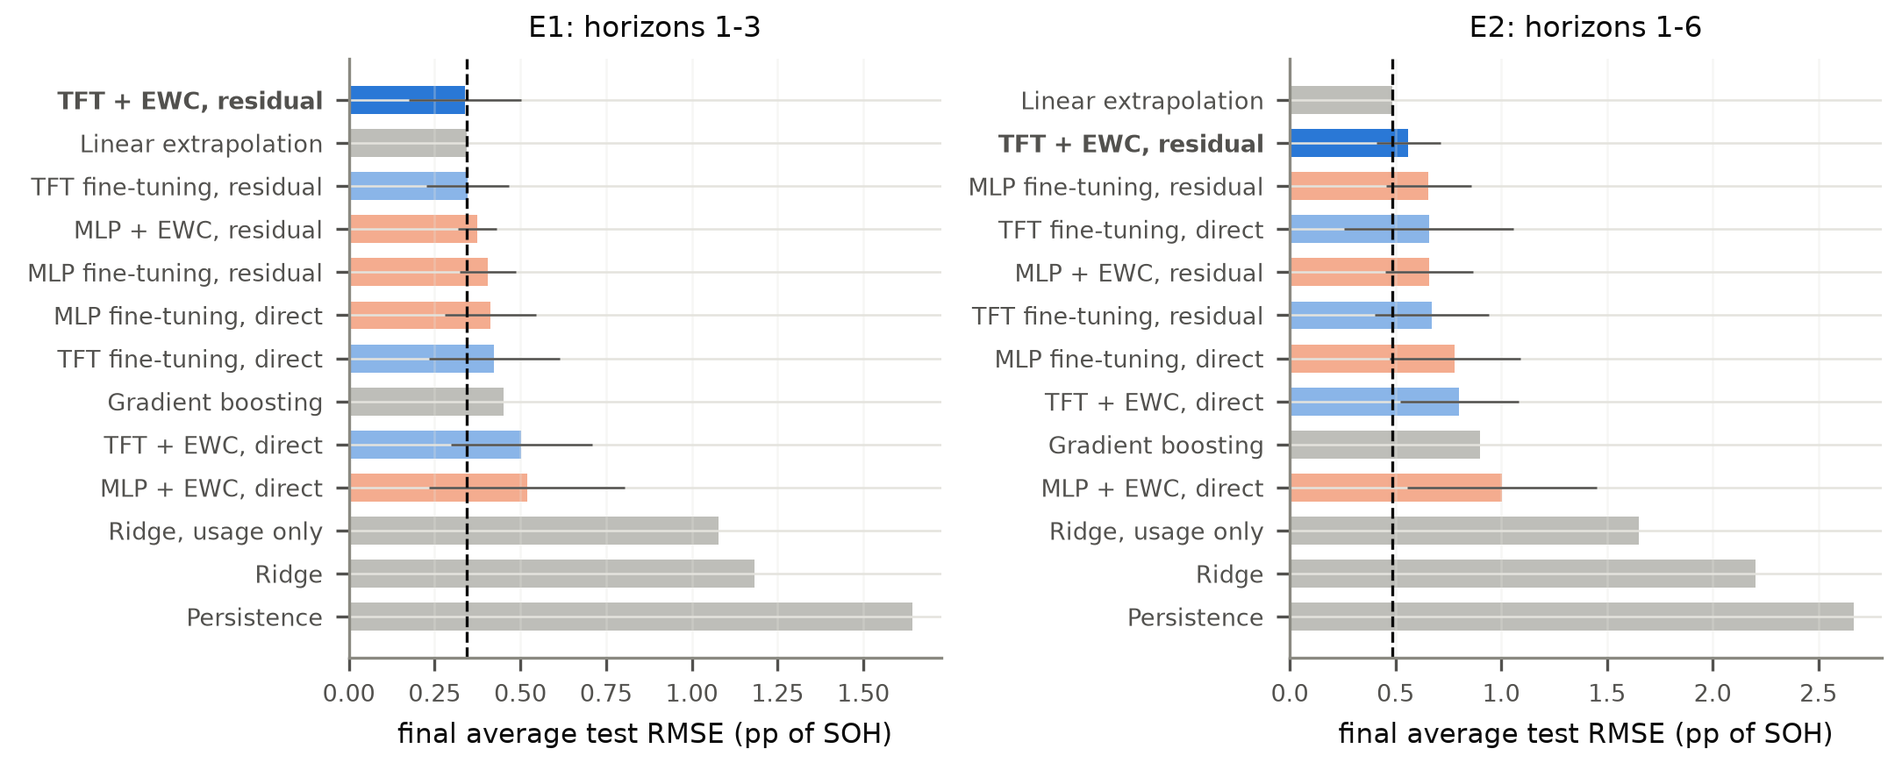
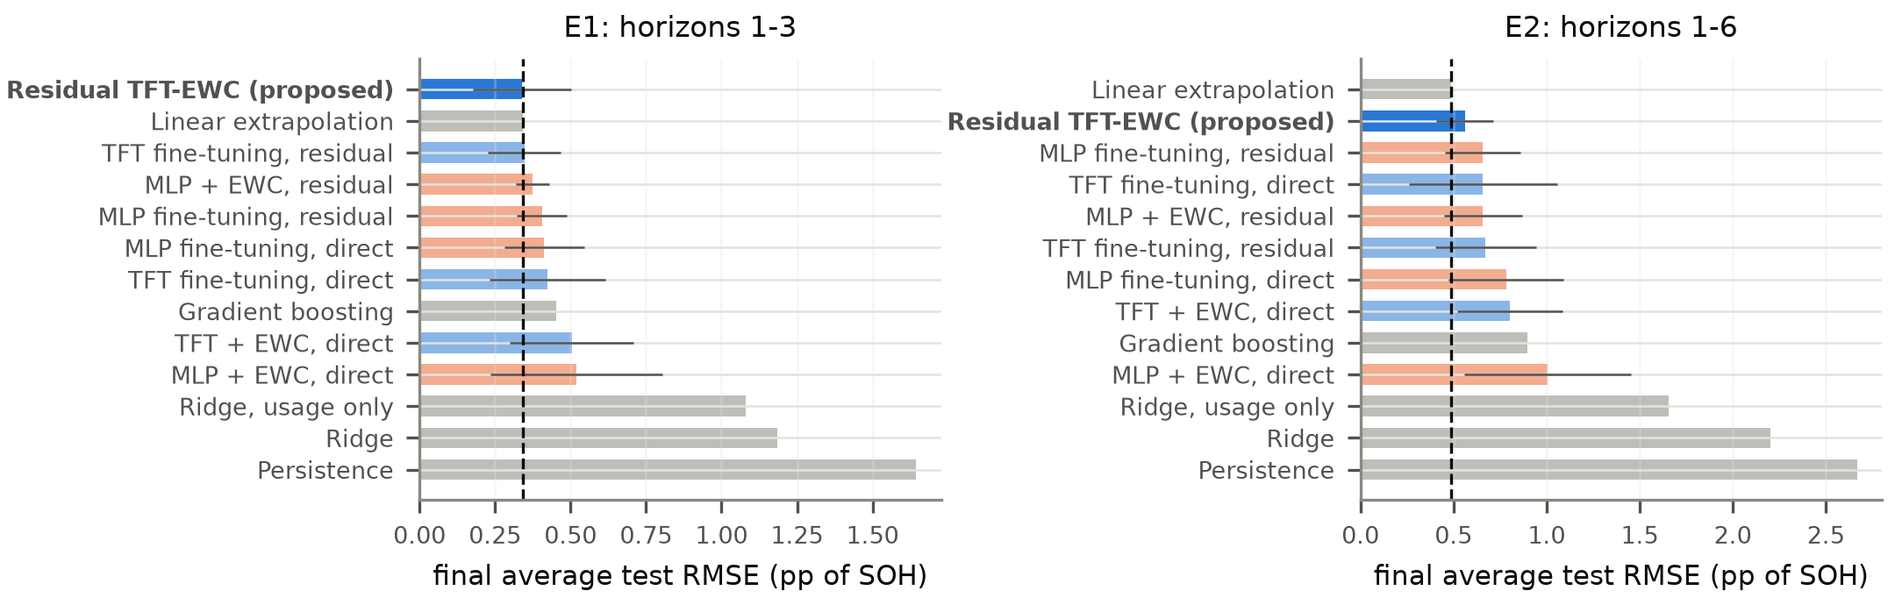
paper: related work condensed around the approaches table; Spark-job and P3 detail moved to the supplement; bar chart shortened and labelled Residual TFT-EWC; output script for the D26 reuse-class table and confusion figure

Changed region(s): [[0.0, 0.0913, 0.9926, 0.9739], [0.7755, 0.0, 0.9306, 0.0609], [0.2792, 0.0, 0.4343, 0.0609]]

diff --git a/paper/paper_single.tex b/paper/paper_single.tex
@@ -173,11 +173,7 @@ The contributions are (Fig.~\ref{fig:system}):
 
 \section{Related Work}
 
-The review covers 2022--2026 studies on second-life lithium-ion batteries, SOH estimation, continual learning and reuse assessment.
-
-\emph{SOH estimation for second life.} Braco \textit{et al.} estimated the SOH of second-life cells from partial charging under residential and fast-charging-station profiles, with offline RMSE of about 0.6 and 0.8\% and 85\% less testing time than a full capacity test~\cite{ref1}. On reused Nissan Leaf modules they compared 58 health indicators; the best reached about 0.2\% RMSE at repurposing, but the most useful indicators changed as ageing progressed~\cite{ref2}. Faraji-Niri \textit{et al.} accelerated second-life SOH estimation with impedance spectroscopy and machine learning~\cite{ref3}. Takahashi \textit{et al.} screened batteries for second life with statistical current and voltage features and bagged Gaussian process regression, with root-mean-squared percent error below 1.48\% in the worst cases~\cite{ref4}. Cui \textit{et al.} tested retired Nissan Leaf cells for more than 15 months under grid-storage-like operation and estimated health online with clustering, with mean absolute percentage error below 2.3\%~\cite{ref5}. Vignesh \textit{et al.} reviewed SOH estimation methods for second-life batteries and their challenges~\cite{ref6}. These studies estimate the \emph{current} SOH of a fixed population; none adapts a model as new, different populations arrive.
-
-\emph{Continual learning and generalisation.} Lee \textit{et al.} applied bilevel-optimised continual learning to predict the capacity degradation of lithium-ion batteries~\cite{ref7}. Yao \textit{et al.} used progressive neural networks with temporal convolutional networks for online state-of-charge estimation across three drive-cycle datasets, addressing catastrophic forgetting and task order~\cite{ref8}. Li \textit{et al.} proposed domain-generalised SOH estimation for second-life EV batteries~\cite{ref9}, and Meskine \textit{et al.} compared BiLSTM, TCN and probabilistic TCN-GPR models on sparse, noisy data, where isotonic recalibration substantially reduced the calibration error~\cite{ref10}. Transfer and domain generalisation do not by themselves address a long sequence of tasks with explicit retention.
+The review covers 2022--2026 studies (Table~\ref{tab:literature}; review in~\cite{ref6}). Second-life SOH has been estimated from partial charging under residential and fast-charging profiles (RMSE about 0.6 and 0.8\%, 85\% less testing time than a capacity test)~\cite{ref1}, from 58 health indicators of reused Nissan Leaf modules (about 0.2\% RMSE, but the most useful indicators changed with ageing)~\cite{ref2}, from impedance spectra~\cite{ref3}, and with bagged Gaussian process regression for screening (worst-case error below 1.48\%)~\cite{ref4}; retired Leaf cells aged for over 15 months were tracked online with clustering (error below 2.3\%)~\cite{ref5}. These studies estimate the \emph{current} SOH of a fixed population; none adapts a model as new populations arrive. Continual learning has predicted capacity degradation~\cite{ref7} and, with progressive networks and TCNs, the state of charge across drive cycles, addressing forgetting and task order~\cite{ref8}; domain generalisation~\cite{ref9} and probabilistic BiLSTM/TCN models, whose calibration error isotonic recalibration reduced~\cite{ref10}, target second-life SOH but not a long sequence of tasks with explicit retention.
 
 \begin{table}[t]
   \centering
@@ -253,7 +249,7 @@ Table~\ref{tab:data} lists the five public datasets (all CC~BY~4.0). Every file 
 \subsection{Big-data processing of the ageing cycles}
 \label{sec:spark}
 
-Between checks, every S6 cell logged each ageing cycle at about one sample per second: 827 files, 132~GB raw and $9.0\times10^{8}$ rows. Apache Spark~4.2 (PySpark, local mode) reduces them to block-level inputs: one map task per 100-cycle block derives, for every cycle, a validity flag and seven measured responses (end-of-charge and end-of-discharge voltage, constant-voltage hold time and final current, relaxation after charge and after discharge, internal resistance); Spark SQL groups the cached per-cycle table (82{,}529 cycles) by cell and block into the mean, last value and slope of each response (21 inputs), and each block joins the origin at the check that ends it. Charge, energy and current are excluded because the protocol scales them with the previous capacity (within-cell $r=0.97$--$0.999$ with the previous check's capacity). The run takes 20~min on six cores and matches an independent pandas implementation on all 827 blocks (largest difference $2\times10^{-13}$).
+Between checks, every S6 cell logged each ageing cycle at about one sample per second (827 files, 132~GB, $9.0\times10^{8}$ rows). Apache Spark~4.2 (PySpark, local mode) reduces them to the mean, last value and slope of seven measured responses per 100-cycle block (21 inputs), joined to the check that ends the block; the job, its validation against an independent pandas implementation and the excluded quantities are described in the supplement.
 
 \subsection{State of health and forecasting target}
 \label{sec:soh}
@@ -353,7 +349,7 @@ Preprocessing (standardisation, median imputation with missing indicators, targe
   \frac{\lambda}{2}\sum_{p} F_{j,p}\,\big(\theta_p - \theta^{*}_{j,p}\big)^2,
   \label{eq:ewc}
 \end{equation}
-with $\theta^*_j$ the parameters after task $j$ and $F_j$ the empirical diagonal Fisher information over up to 500 training samples. \emph{TFT\,+\,EWC} is the proposed model. Training uses Adam~\cite{kingma2015adam}, batches of 64, at most 200 epochs and early stopping on the current task's validation RMSE.
+with $\theta^*_j$ the parameters after task $j$ and $F_j$ the empirical diagonal Fisher information over up to 500 training samples. \emph{TFT\,+\,EWC} is the proposed continual learner; trained on the residual~\eqref{eq:residual} below, with shrinkage and intervals, it forms the proposed \emph{Residual TFT-EWC} (Fig.~\ref{fig:arch}). Training uses Adam~\cite{kingma2015adam}, batches of 64, at most 200 epochs and early stopping on the current task's validation RMSE.
 
 \emph{Reference forecasters} are persistence ($\hat\Delta=0$), linear extrapolation $\hat\Delta_{b,k,h} = r_{b,k}(t_{b,k+h}-t_{b,k})$, ridge regression (on planned usage only, F0 or F1) and histogram gradient boosting on F1.
 
@@ -494,9 +490,9 @@ P1 and P2 were re-run in a pinned environment on data rebuilt from the raw archi
 \subsection{First-life pretraining (P3)}
 \label{sec:res-p3}
 
-The pool has 36{,}711 samples (S6: 2{,}409); validation selected EWC $\lambda=0.01$ for the pretrained TFT. Under the replication rule, EWC and fine-tuning are practically equivalent for the pretrained TFT (differences of 0.015--0.017~pp); both backbones are better from scratch on average (TFT 0.401/0.415~pp against 0.509/0.591~pp pretrained with EWC, significant only in the replicate set); and linear extrapolation (0.343~pp) remains the most accurate method. The S6 stream does not degrade the pool test error (TFT\,+\,EWC: 3.280 to 3.148~pp), but there too the pretrained models trail extrapolation (3.001~pp): pretraining learns no first-life model worth transferring.
+Pretraining on the first-life pool (36{,}711 samples, against 2{,}409 in S6) does not help: for the pretrained TFT, EWC and fine-tuning are practically equivalent, both backbones are better from scratch on average (TFT 0.401/0.415~pp against 0.509/0.591~pp pretrained with EWC, significant only in the replicate set), and linear extrapolation (0.343~pp) remains the most accurate method, on S6 and on the pool's own test split (details in the supplement).
 
-\emph{Why the TFT improved.} A post hoc ablation, repeated on the replicate seeds, explains why the TFT from scratch improves from 0.891~pp with the earlier inputs to 0.401~pp with the shared ones: dropping the 17 diagnostic features lowers the error by 0.17--0.35~pp and adding the calendar time between checks by 0.19--0.31~pp, both replicated at both learning rates ($p_{\mathrm{Holm}}\le0.002$). Its attention over the four previous origins is nearly uniform (0.24--0.26 per lag): the TFT makes little use of its history.
+\emph{Why the TFT improved.} A post hoc ablation, repeated on the replicate seeds, explains why the TFT from scratch improves from 0.891 to 0.401~pp with the shared inputs: dropping the 17 diagnostic features (0.17--0.35~pp) and adding the calendar time between checks (0.19--0.31~pp), both replicated ($p_{\mathrm{Holm}}\le0.002$). Its attention over the four previous origins is nearly uniform (0.24--0.26 per lag).
 \label{sec:res-interp}
 
 % -----------------------------------------------------------------------------

diff --git a/scripts/make_d26_class_outputs.py b/scripts/make_d26_class_outputs.py
@@ -1,0 +1,105 @@
+"""Comparison table and confusion figure of the reuse classes on unseen S6 conditions (D26 E1 set-up).
+
+From results/forecasting_d26_classes_e1.json (scripts/run_d26_classes.py). Writes
+paper/tables/d26_classes.tex (accuracy, sensitivity = macro recall, precision = macro precision, macro-F1, MCC) and
+paper/figures/d26_confusion.png (mean counts over the 50 runs for the proposed model; single fits otherwise).
+
+    python scripts/make_d26_class_outputs.py
+"""
+
+from __future__ import annotations
+
+import json
+from pathlib import Path
+
+import matplotlib
+
+matplotlib.use("Agg")
+import matplotlib.pyplot as plt  # noqa: E402
+import numpy as np  # noqa: E402
+
+ROOT = Path(__file__).resolve().parents[1]
+SRC = ROOT / "results" / "forecasting_d26_classes_e1.json"
+ROWS = (  # (key, label, kind)
+    ("persistence", "Persistence", "baseline"),
+    ("linear_extrapolation", "Linear extrapolation", "baseline"),
+    ("ridge_shared", "Ridge", "regression"),
+    ("gbm_shared", "Gradient boosting", "regression"),
+    ("tft_residual_ewc_shrunk", "\\textbf{Residual TFT-EWC}", "proposed, continual"),
+)
+COLS = (("accuracy", "Acc."), ("recall_macro", "Sens."), ("precision_macro", "Prec."), ("f1_macro", "F1"),
+        ("mcc", "MCC"))
+FIG = (("linear_extrapolation", "Linear extrapolation"), ("gbm_shared", "Gradient boosting"),
+       ("tft_residual_ewc_shrunk", "Residual TFT-EWC (mean)"))
+
+
+def table(d: dict) -> str:
+    s = d["summary"]
+    best = {k: max(s[m][k]["mean"] for m, _, _ in ROWS) for k, _ in COLS}
+    lines = []
+    for key, label, kind in ROWS:
+        cells = []
+        for k, _ in COLS:
+            v = s[key][k]["mean"]
+            txt = f"{v:.3f}"
+            if key == "tft_residual_ewc_shrunk":
+                txt += f"\\,$\\pm$\\,{s[key][k]['std']:.3f}"
+            cells.append(f"\\textbf{{{txt}}}" if abs(v - best[k]) < 5e-4 else txt)
+        lines.append(f"    {label} & {kind} & " + " & ".join(cells) + " \\\\")
+    cm = np.array(s["linear_extrapolation"]["confusion_mean"])
+    counts = ", ".join(f"C{i} {int(n)}" for i, n in enumerate(cm.sum(axis=1)))
+    return "\n".join([
+        f"% Generated by scripts/make_d26_class_outputs.py from {SRC.relative_to(ROOT).as_posix()}",
+        "\\begin{table}[t]",
+        "  \\centering",
+        "  \\caption{Reuse class of the forecast SOH on unseen S6 usage conditions (P2, seven held-out conditions,",
+        "    horizons 1--3), all held-out samples pooled. Sens.\\ and Prec.: macro sensitivity (recall) and precision",
+        f"    over the measured classes ({counts}). Proposed model: mean $\\pm$ s.d.\\ over 50 runs (main seed set);",
+        "    others: single deterministic fits. Bold: best.}",
+        "  \\label{tab:d26_classes}",
+        "  \\setlength{\\tabcolsep}{2.2pt}",
+        "  \\scriptsize",
+        "  \\begin{tabular}{llccccc}",
+        "    \\toprule",
+        "    Approach & Type & " + " & ".join(h for _, h in COLS) + " \\\\",
+        "    \\midrule",
+        *lines,
+        "    \\bottomrule",
+        "  \\end{tabular}",
+        "\\end{table}",
+        "",
+    ])
+
+
+def figure(d: dict) -> None:
+    s = d["summary"]
+    fig, axes = plt.subplots(1, 3, figsize=(3.5, 1.45), sharey=True)
+    for ax, (key, title) in zip(axes, FIG):
+        cm = np.array(s[key]["confusion_mean"], float)
+        share = cm / np.maximum(cm.sum(axis=1, keepdims=True), 1)
+        ax.imshow(share, cmap="Blues", vmin=0, vmax=1)
+        for i in range(cm.shape[0]):
+            for j in range(cm.shape[1]):
+                ax.text(j, i, f"{cm[i, j]:.0f}", ha="center", va="center", fontsize=5,
+                        color="w" if share[i, j] > 0.6 else "k")
+        ax.set_title(title, fontsize=5.8)
+        ax.set_xticks(range(4), [f"C{i}" for i in range(4)], fontsize=5)
+        ax.set_yticks(range(4), [f"C{i}" for i in range(4)], fontsize=5)
+        ax.set_xlabel("forecast class", fontsize=5.5)
+        ax.tick_params(length=1.5, pad=1)
+    axes[0].set_ylabel("measured class", fontsize=5.5)
+    fig.tight_layout(pad=0.2, w_pad=0.4)
+    fig.savefig(ROOT / "paper" / "figures" / "d26_confusion.png", dpi=400)
+    plt.close(fig)
+
+
+def main() -> int:
+    d = json.loads(SRC.read_text())
+    (ROOT / "paper" / "tables" / "d26_classes.tex").write_text(table(d), encoding="utf-8")
+    figure(d)
+    print("wrote paper/tables/d26_classes.tex and paper/figures/d26_confusion.png")
+    return 0
+
+
+if __name__ == "__main__":
+    raise SystemExit(main())

diff --git a/paper/sections/related.tex b/paper/sections/related.tex
@@ -7,11 +7,7 @@
 
 \section{Related Work}
 
-The review covers 2022--2026 studies on second-life lithium-ion batteries, SOH estimation, continual learning and reuse assessment.
-
-\emph{SOH estimation for second life.} Braco \textit{et al.} estimated the SOH of second-life cells from partial charging under residential and fast-charging-station profiles, with offline RMSE of about 0.6 and 0.8\% and 85\% less testing time than a full capacity test~\cite{ref1}. On reused Nissan Leaf modules they compared 58 health indicators; the best reached about 0.2\% RMSE at repurposing, but the most useful indicators changed as ageing progressed~\cite{ref2}. Faraji-Niri \textit{et al.} accelerated second-life SOH estimation with impedance spectroscopy and machine learning~\cite{ref3}. Takahashi \textit{et al.} screened batteries for second life with statistical current and voltage features and bagged Gaussian process regression, with root-mean-squared percent error below 1.48\% in the worst cases~\cite{ref4}. Cui \textit{et al.} tested retired Nissan Leaf cells for more than 15 months under grid-storage-like operation and estimated health online with clustering, with mean absolute percentage error below 2.3\%~\cite{ref5}. Vignesh \textit{et al.} reviewed SOH estimation methods for second-life batteries and their challenges~\cite{ref6}. These studies estimate the \emph{current} SOH of a fixed population; none adapts a model as new, different populations arrive.
-
-\emph{Continual learning and generalisation.} Lee \textit{et al.} applied bilevel-optimised continual learning to predict the capacity degradation of lithium-ion batteries~\cite{ref7}. Yao \textit{et al.} used progressive neural networks with temporal convolutional networks for online state-of-charge estimation across three drive-cycle datasets, addressing catastrophic forgetting and task order~\cite{ref8}. Li \textit{et al.} proposed domain-generalised SOH estimation for second-life EV batteries~\cite{ref9}, and Meskine \textit{et al.} compared BiLSTM, TCN and probabilistic TCN-GPR models on sparse, noisy data, where isotonic recalibration substantially reduced the calibration error~\cite{ref10}. Transfer and domain generalisation do not by themselves address a long sequence of tasks with explicit retention.
+The review covers 2022--2026 studies (Table~\ref{tab:literature}; review in~\cite{ref6}). Second-life SOH has been estimated from partial charging under residential and fast-charging profiles (RMSE about 0.6 and 0.8\%, 85\% less testing time than a capacity test)~\cite{ref1}, from 58 health indicators of reused Nissan Leaf modules (about 0.2\% RMSE, but the most useful indicators changed with ageing)~\cite{ref2}, from impedance spectra~\cite{ref3}, and with bagged Gaussian process regression for screening (worst-case error below 1.48\%)~\cite{ref4}; retired Leaf cells aged for over 15 months were tracked online with clustering (error below 2.3\%)~\cite{ref5}. These studies estimate the \emph{current} SOH of a fixed population; none adapts a model as new populations arrive. Continual learning has predicted capacity degradation~\cite{ref7} and, with progressive networks and TCNs, the state of charge across drive cycles, addressing forgetting and task order~\cite{ref8}; domain generalisation~\cite{ref9} and probabilistic BiLSTM/TCN models, whose calibration error isotonic recalibration reduced~\cite{ref10}, target second-life SOH but not a long sequence of tasks with explicit retention.
 
 \begin{table}[t]
   \centering

diff --git a/paper/sections/methods.tex b/paper/sections/methods.tex
@@ -44,7 +44,7 @@ Table~\ref{tab:data} lists the five public datasets (all CC~BY~4.0). Every file 
 \subsection{Big-data processing of the ageing cycles}
 \label{sec:spark}
 
-Between checks, every S6 cell logged each ageing cycle at about one sample per second: 827 files, 132~GB raw and $9.0\times10^{8}$ rows. Apache Spark~4.2 (PySpark, local mode) reduces them to block-level inputs: one map task per 100-cycle block derives, for every cycle, a validity flag and seven measured responses (end-of-charge and end-of-discharge voltage, constant-voltage hold time and final current, relaxation after charge and after discharge, internal resistance); Spark SQL groups the cached per-cycle table (82{,}529 cycles) by cell and block into the mean, last value and slope of each response (21 inputs), and each block joins the origin at the check that ends it. Charge, energy and current are excluded because the protocol scales them with the previous capacity (within-cell $r=0.97$--$0.999$ with the previous check's capacity). The run takes 20~min on six cores and matches an independent pandas implementation on all 827 blocks (largest difference $2\times10^{-13}$).
+Between checks, every S6 cell logged each ageing cycle at about one sample per second (827 files, 132~GB, $9.0\times10^{8}$ rows). Apache Spark~4.2 (PySpark, local mode) reduces them to the mean, last value and slope of seven measured responses per 100-cycle block (21 inputs), joined to the check that ends the block; the job, its validation against an independent pandas implementation and the excluded quantities are described in the supplement.
 
 \subsection{State of health and forecasting target}
 \label{sec:soh}
@@ -94,7 +94,7 @@ Preprocessing (standardisation, median imputation with missing indicators, targe
   \frac{\lambda}{2}\sum_{p} F_{j,p}\,\big(\theta_p - \theta^{*}_{j,p}\big)^2,
   \label{eq:ewc}
 \end{equation}
-with $\theta^*_j$ the parameters after task $j$ and $F_j$ the empirical diagonal Fisher information over up to 500 training samples. \emph{TFT\,+\,EWC} is the proposed model. Training uses Adam~\cite{kingma2015adam}, batches of 64, at most 200 epochs and early stopping on the current task's validation RMSE.
+with $\theta^*_j$ the parameters after task $j$ and $F_j$ the empirical diagonal Fisher information over up to 500 training samples. \emph{TFT\,+\,EWC} is the proposed continual learner; trained on the residual~\eqref{eq:residual} below, with shrinkage and intervals, it forms the proposed \emph{Residual TFT-EWC} (Fig.~\ref{fig:arch}). Training uses Adam~\cite{kingma2015adam}, batches of 64, at most 200 epochs and early stopping on the current task's validation RMSE.
 
 \emph{Reference forecasters} are persistence ($\hat\Delta=0$), linear extrapolation $\hat\Delta_{b,k,h} = r_{b,k}(t_{b,k+h}-t_{b,k})$, ridge regression (on planned usage only, F0 or F1) and histogram gradient boosting on F1.
 

diff --git a/paper/sections/results.tex b/paper/sections/results.tex
@@ -49,9 +49,9 @@ P1 and P2 were re-run in a pinned environment on data rebuilt from the raw archi
 \subsection{First-life pretraining (P3)}
 \label{sec:res-p3}
 
-The pool has 36{,}711 samples (S6: 2{,}409); validation selected EWC $\lambda=0.01$ for the pretrained TFT. Under the replication rule, EWC and fine-tuning are practically equivalent for the pretrained TFT (differences of 0.015--0.017~pp); both backbones are better from scratch on average (TFT 0.401/0.415~pp against 0.509/0.591~pp pretrained with EWC, significant only in the replicate set); and linear extrapolation (0.343~pp) remains the most accurate method. The S6 stream does not degrade the pool test error (TFT\,+\,EWC: 3.280 to 3.148~pp), but there too the pretrained models trail extrapolation (3.001~pp): pretraining learns no first-life model worth transferring.
+Pretraining on the first-life pool (36{,}711 samples, against 2{,}409 in S6) does not help: for the pretrained TFT, EWC and fine-tuning are practically equivalent, both backbones are better from scratch on average (TFT 0.401/0.415~pp against 0.509/0.591~pp pretrained with EWC, significant only in the replicate set), and linear extrapolation (0.343~pp) remains the most accurate method, on S6 and on the pool's own test split (details in the supplement).
 
-\emph{Why the TFT improved.} A post hoc ablation, repeated on the replicate seeds, explains why the TFT from scratch improves from 0.891~pp with the earlier inputs to 0.401~pp with the shared ones: dropping the 17 diagnostic features lowers the error by 0.17--0.35~pp and adding the calendar time between checks by 0.19--0.31~pp, both replicated at both learning rates ($p_{\mathrm{Holm}}\le0.002$). Its attention over the four previous origins is nearly uniform (0.24--0.26 per lag): the TFT makes little use of its history.
+\emph{Why the TFT improved.} A post hoc ablation, repeated on the replicate seeds, explains why the TFT from scratch improves from 0.891 to 0.401~pp with the shared inputs: dropping the 17 diagnostic features (0.17--0.35~pp) and adding the calendar time between checks (0.19--0.31~pp), both replicated ($p_{\mathrm{Holm}}\le0.002$). Its attention over the four previous origins is nearly uniform (0.24--0.26 per lag).
 \label{sec:res-interp}
 
 % -----------------------------------------------------------------------------

diff --git a/paper/supplement.tex b/paper/supplement.tex
@@ -136,6 +136,28 @@ error per held-out group.
 \end{figure*}
 
 % -----------------------------------------------------------------------------
+\section{Ageing-cycle processing and first-life pretraining}
+
+\emph{Spark job.} Between checks, every S6 cell logged each ageing cycle at about one sample per second: 827 files,
+132~GB raw and $9.0\times10^{8}$ rows. Apache Spark~4.2 (PySpark, local mode) reduces them to block-level inputs: one map
+task per 100-cycle block derives, for every cycle, a validity flag and seven measured responses (end-of-charge and
+end-of-discharge voltage, constant-voltage hold time and final current, relaxation after charge and after discharge,
+internal resistance); Spark SQL groups the cached per-cycle table (82{,}529 cycles) by cell and block into the mean,
+last value and slope of each response (21 inputs), and each block joins the origin at the check that ends it. Charge,
+energy and current are excluded because the protocol scales them with the previous capacity (within-cell
+$r=0.97$--$0.999$ with the previous check's capacity). The run takes 20~min on six cores and matches an independent
+pandas implementation on all 827 blocks (largest difference $2\times10^{-13}$).
+
+\emph{First-life pretraining (P3).} The pool provides 36{,}711 samples, against 2{,}409 in S6, and validation selected
+EWC $\lambda=0.01$ for the pretrained TFT. Under the replication rule, EWC and fine-tuning are practically equivalent for
+the pretrained TFT (differences of 0.015--0.017~pp). The S6 stream does not degrade the pool test error
+(TFT\,+\,EWC: 3.280 to 3.148~pp), but on that split the pretrained models are also less accurate than extrapolation
+(3.001~pp): pretraining does not learn a first-life model worth transferring.
+
+\emph{Attention.} The TFT's attention over the four previous origins is nearly uniform (0.24--0.26 per lag): it makes
+little use of its history.
+
+% -----------------------------------------------------------------------------
 \section{Additional results}
 
 Table~\ref{tab:residual} and Figs.~\ref{fig:d25} and \ref{fig:d27} belong to Sections IV-E to IV-H of the paper and

diff --git a/scripts/make_d23_bar_figure.py b/scripts/make_d23_bar_figure.py
@@ -24,13 +24,15 @@ O = importlib.util.module_from_spec(spec)
 spec.loader.exec_module(O)
 
 REF = "tft_residual_ewc"
+PROPOSED = "Residual TFT-EWC (proposed)"
 
 
 def main() -> int:
-    fig, axes = plt.subplots(1, 2, figsize=(7.2, 2.9))
+    fig, axes = plt.subplots(1, 2, figsize=(7.2, 2.3))
     for ax, exp in zip(axes, ("e1", "e2")):
         data = pd.read_json(ROOT / "results" / f"forecasting_d23_{exp}.json", typ="series").to_dict()
         c = O.comparison(data).sort_values("rmse_main_mean", ascending=False)
+        c.loc[c["method"] == REF, "label"] = PROPOSED
         colours = ["#2a78d6" if m == REF else O.FAMILY_COLOUR.get(O.family(m), O.GREY) if O.family(m) else O.GREY
                    for m in c["method"]]
         bars = ax.barh(c["label"], c["rmse_main_mean"], xerr=c["rmse_main_sd"].fillna(0), color=colours,
@@ -45,7 +47,7 @@ def main() -> int:
         ax.tick_params(labelsize=6.5)
         ax.grid(axis="x", alpha=0.3)
         for lbl in ax.get_yticklabels():
-            if lbl.get_text() == O.label(REF):
+            if lbl.get_text() == PROPOSED:
                 lbl.set_fontweight("bold")
     fig.tight_layout(pad=0.4)
     fig.savefig(ROOT / "paper" / "figures" / "d23_comparison.png", dpi=300)
